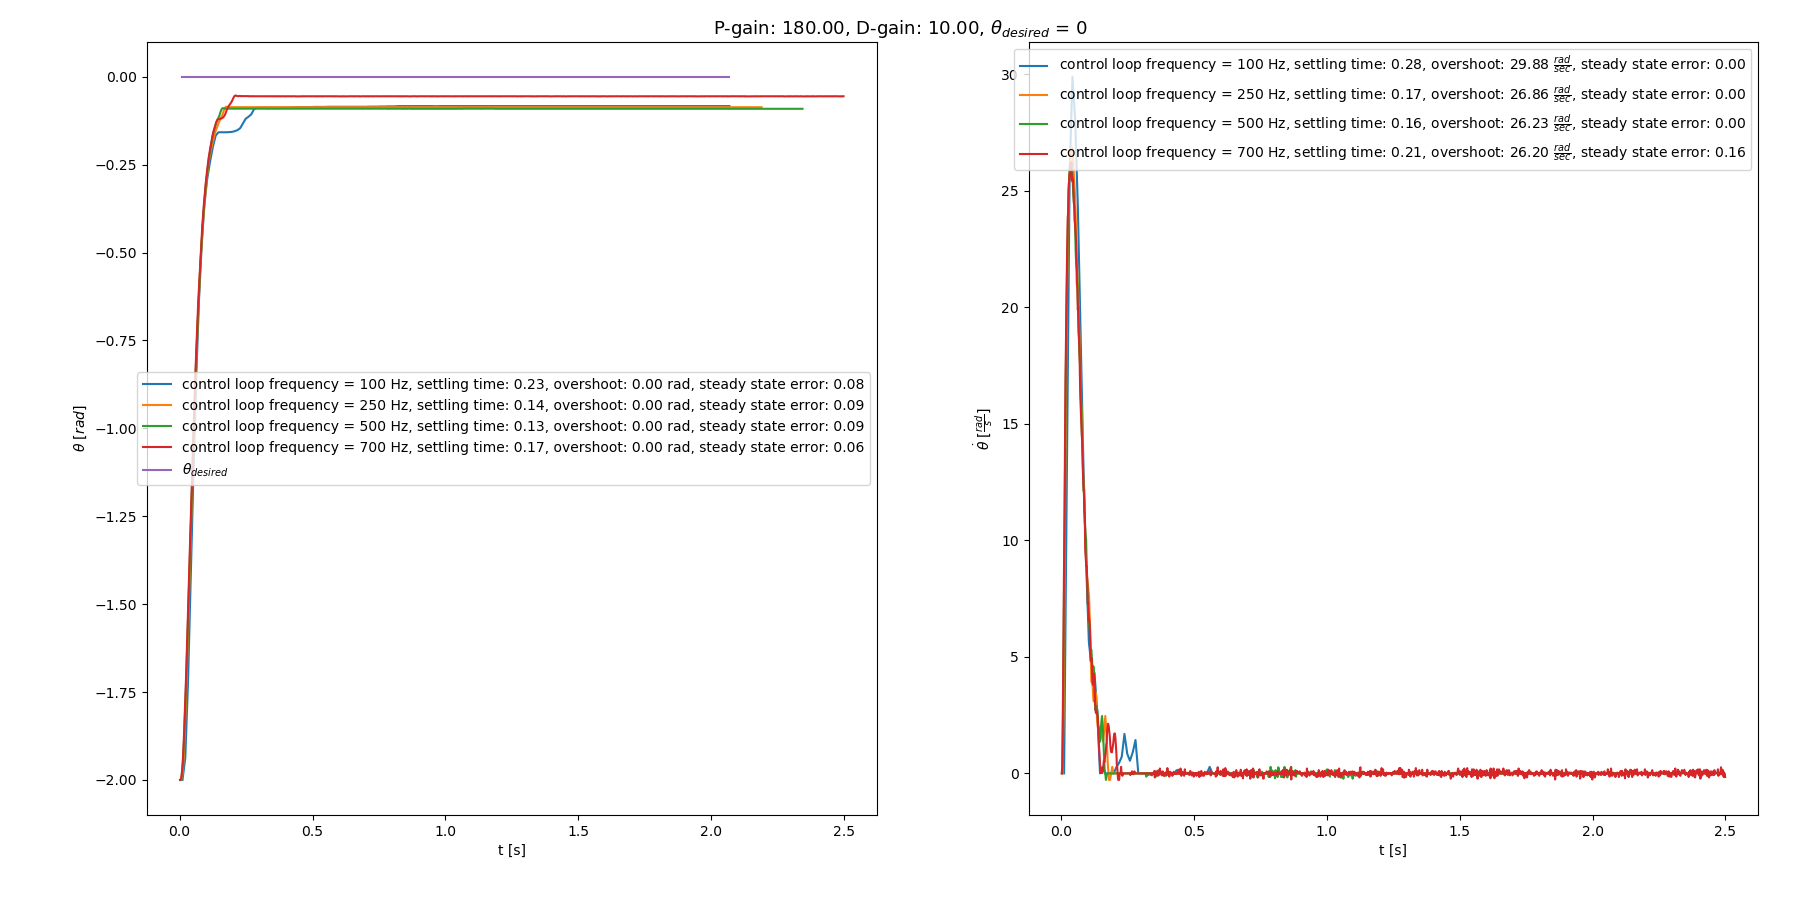
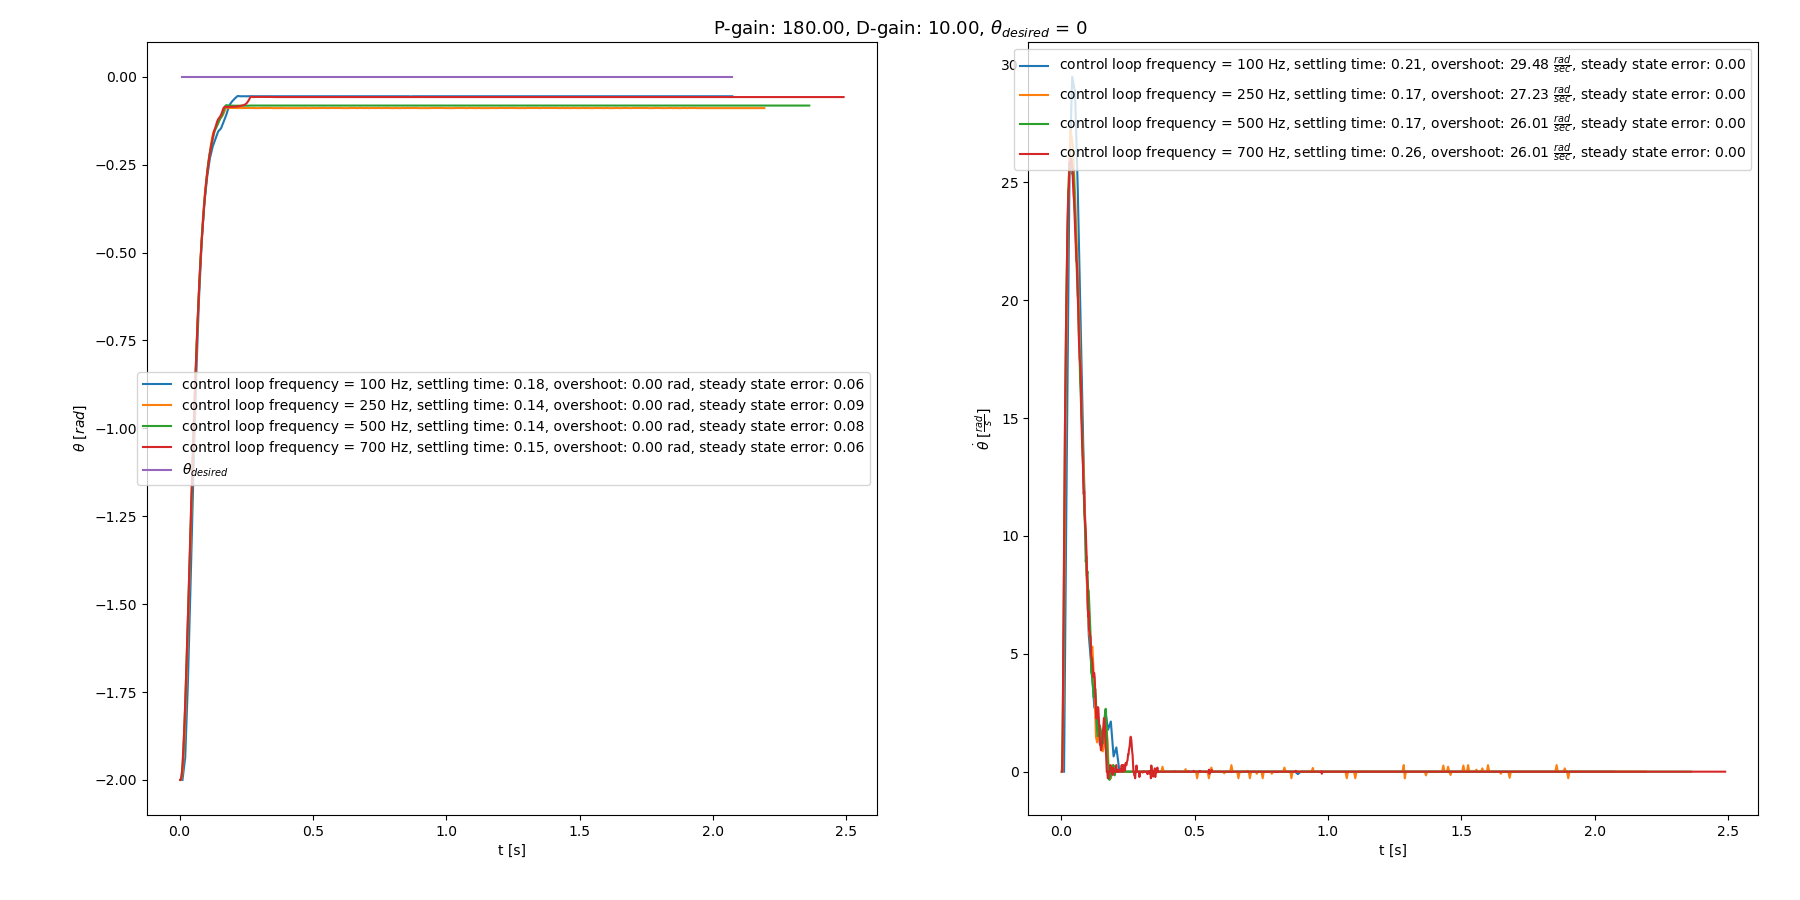
add 3.2

diff --git a/practice_2/task3.2.py b/practice_2/task3.2.py
@@ -1,0 +1,189 @@
+from libs.can import CANSocket
+from libs.myactuator import MyActuator
+from time import perf_counter
+
+import numpy as np
+import matplotlib.pyplot as plt
+
+serial_device = "ttyACM1"
+
+# Initiate the can bus socket
+can_bus = CANSocket(serial_port=serial_device)
+
+# Initiate motor
+motor = MyActuator(can_bus=can_bus)
+
+# Set the control loop timings
+frequencies = np.array([22])
+f_n = len(frequencies)
+sampling_time = 1 / frequencies
+
+def stop_motor(motor):
+    for _ in range(100):
+        motor.set_current(0)
+
+
+# total working time
+T = 5
+Ns = T * frequencies
+
+# for each p_gain, we have a plot for d_gains
+p_gain = 180
+d_gain = 10
+
+angles = [np.zeros(N) for N in Ns]
+velocities = [np.zeros(N) for N in Ns]
+times = [np.zeros(N) for N in Ns]
+
+angle_initial = 2
+angle_desired = 0
+
+velocity_desired = 0
+
+motor.set_current(0)
+
+try:
+    for k in range(f_n):
+        i = 0
+        last_execution = 0
+        control = 0
+        # find the global time before entering control loop
+        initial_time = perf_counter()
+        # motor.set_zero()
+        initial_angle = motor.state["angle"] + angle_initial
+        while True:
+            time = perf_counter() - initial_time  # get actual time in secs
+            # /////////////////////////
+            # Get and parse motor state
+            # /////////////////////////
+            state = motor.state
+            theta = state["angle"] - initial_angle
+            dtheta = state["speed"]
+            current = state["current"]
+
+            # ///////////////////////////////////////////
+            # Update the control only on specific timings
+            # ///////////////////////////////////////////
+
+            # P-control
+            if (time - last_execution) >= sampling_time[k]:
+                if i < Ns[k]:
+                    angles[k][i] = theta
+                    velocities[k][i] = dtheta
+                    times[k][i] = time
+                else: 
+                    break
+
+                i += 1
+
+                last_execution = time
+                # YOUR CONTROLLER GOES HERE
+                control = -p_gain * (theta - angle_desired) - d_gain * (
+                    dtheta - velocity_desired
+                )
+
+            motor.set_current(control)
+
+        stop_motor(motor)
+
+except KeyboardInterrupt:
+
+    stop_motor(motor)
+    print("Disabled by interrupt")
+
+motor = None
+
+angle_bound = 0.05
+velocity_bound = 1
+last_n = 10
+
+
+
+def get_settling_time(x, ts, for_angle=True):
+    x_f = x[-1]
+    bound = angle_bound if for_angle else velocity_bound
+    is_setttled = np.all(np.abs(x[-last_n:] - x_f) <= bound)
+    if not is_setttled:
+        return -1
+    diffs = (np.abs(x - x_f) <= bound)[::-1]
+    j = 0
+    n = len(diffs)
+    for i in range(len(diffs)):
+        if diffs[i] == False:
+            j = i
+            break
+    return ts[n - j - 1]
+
+
+def get_overshoot(x):
+    final_value = np.abs(x[-1])
+    over = x[x - final_value >= 0]
+    max_diff = 0. if over.size == 0 else np.max(over)
+    return max_diff
+
+def get_steady_state_error(x, x_d):
+    return np.abs(x[-1] - x_d)
+
+
+def get_characteristics(x, x_d, ts, for_angle=True):
+    settling_time = get_settling_time(x, ts, for_angle)
+    if settling_time == -1:
+        return [-100, -100, -100]
+    overshoot = get_overshoot(x)
+    steady_state_error = get_steady_state_error(x, x_d)
+    return [settling_time, overshoot, steady_state_error]
+
+
+def add_plot(ax, x, x_d, ts, frequency, for_angle=True):
+    settling_time, overshoot, steady_state_error = get_characteristics(x, x_d, ts, for_angle)
+    overshoot_unit = "rad" if for_angle else "$\\frac{rad}{sec}$"
+    ax.plot(
+        ts,
+        x,
+        label=f"control loop frequency = {frequency} Hz, settling time: {settling_time:.2f}, overshoot: {overshoot:.2f} {overshoot_unit}, steady state error: {steady_state_error:.2f}",
+    )
+
+
+fig, ax = plt.subplots(1, 2, figsize=(18, 9))
+
+ax0, ax1 = ax[0], ax[1]
+ax0.set_xlabel("t [s]")
+ax0.set_ylabel("$\\theta$ [$rad$]")
+
+ax1.set_xlabel("t [s]")
+ax1.set_ylabel("$\\dot{\\theta}$ [$\\frac{rad}{s}$]")
+
+
+
+for i in range(f_n):
+    add_plot(
+        ax=ax0,
+        x=angles[i],
+        x_d=angle_desired,
+        ts=times[i],
+        for_angle=True,
+        frequency=frequencies[i]
+    )
+    add_plot(
+        ax=ax1,
+        x=velocities[i],
+        x_d=velocity_desired,
+        ts=times[i],
+        for_angle=False,
+        frequency=frequencies[i]
+    )
+
+des = np.zeros(Ns[0])
+ax0.plot(times[0], des, label="$\\theta_{{desired}}$")
+ax0.legend()
+ax1.legend()
+
+fig.suptitle(
+    f"P-gain: {p_gain:.2f}, D-gain: {d_gain:.2f}, $\\theta_{{desired}}$ = {angle_desired}",
+    fontsize="13",
+)
+
+fig.tight_layout(pad=3.0)
+
+plt.savefig("./plots/3.2(22).png")
+plt.show()
